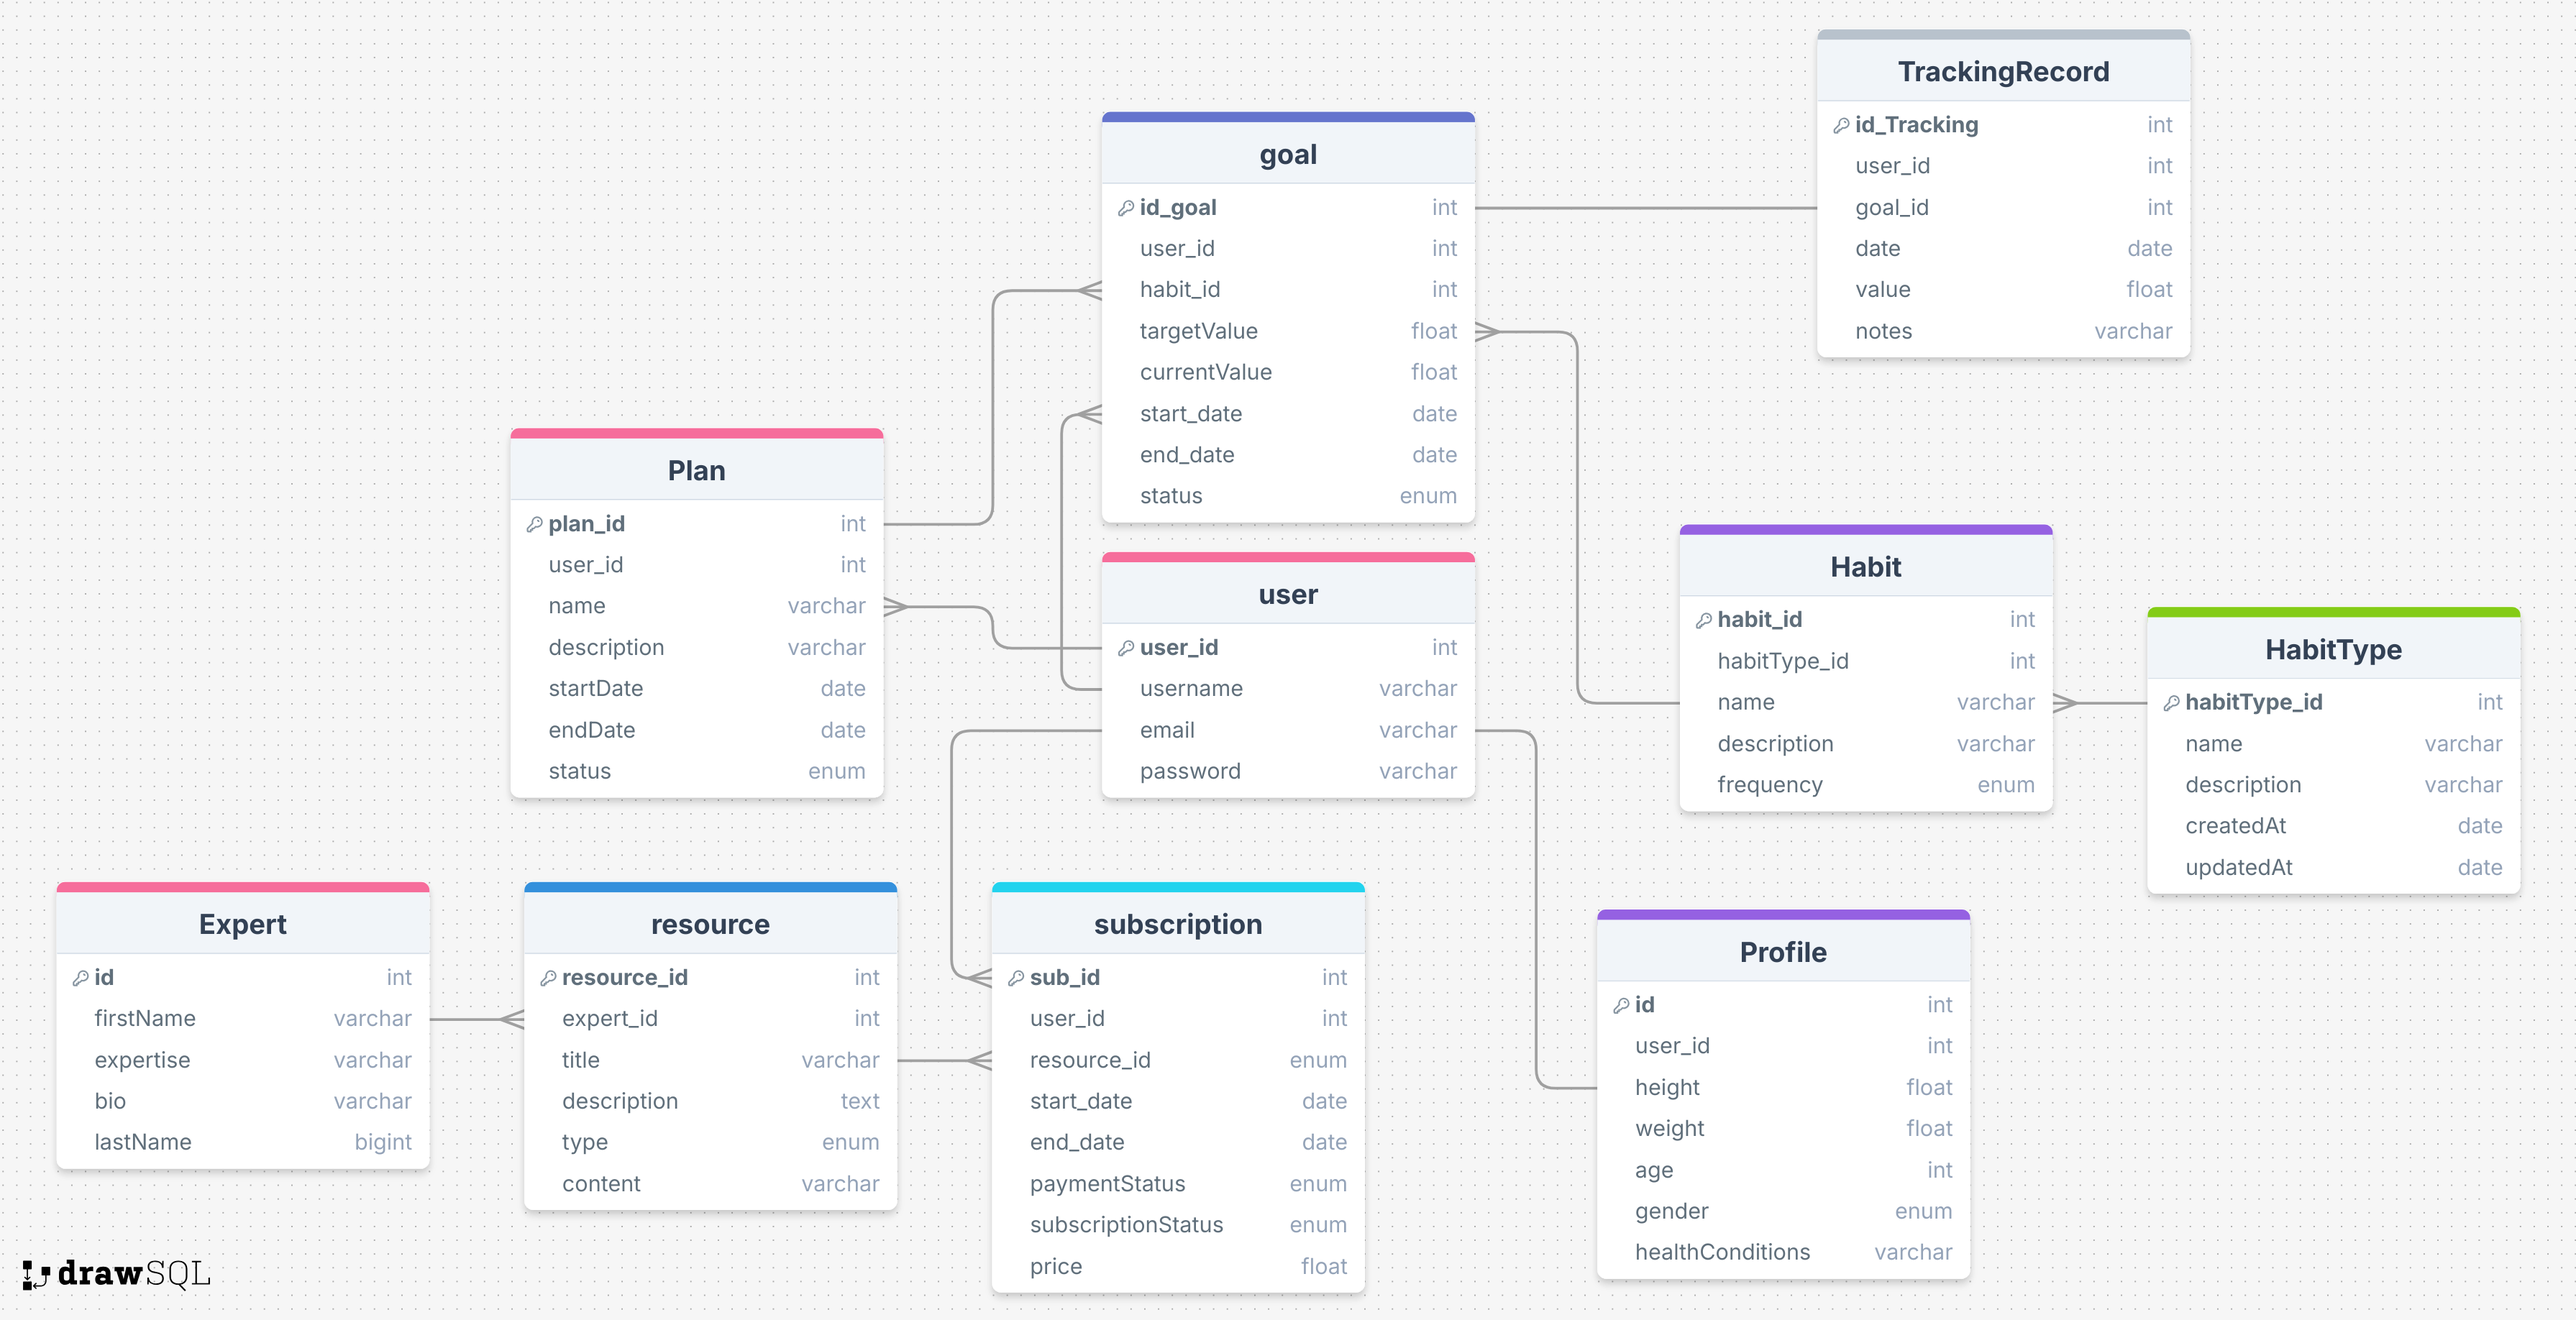
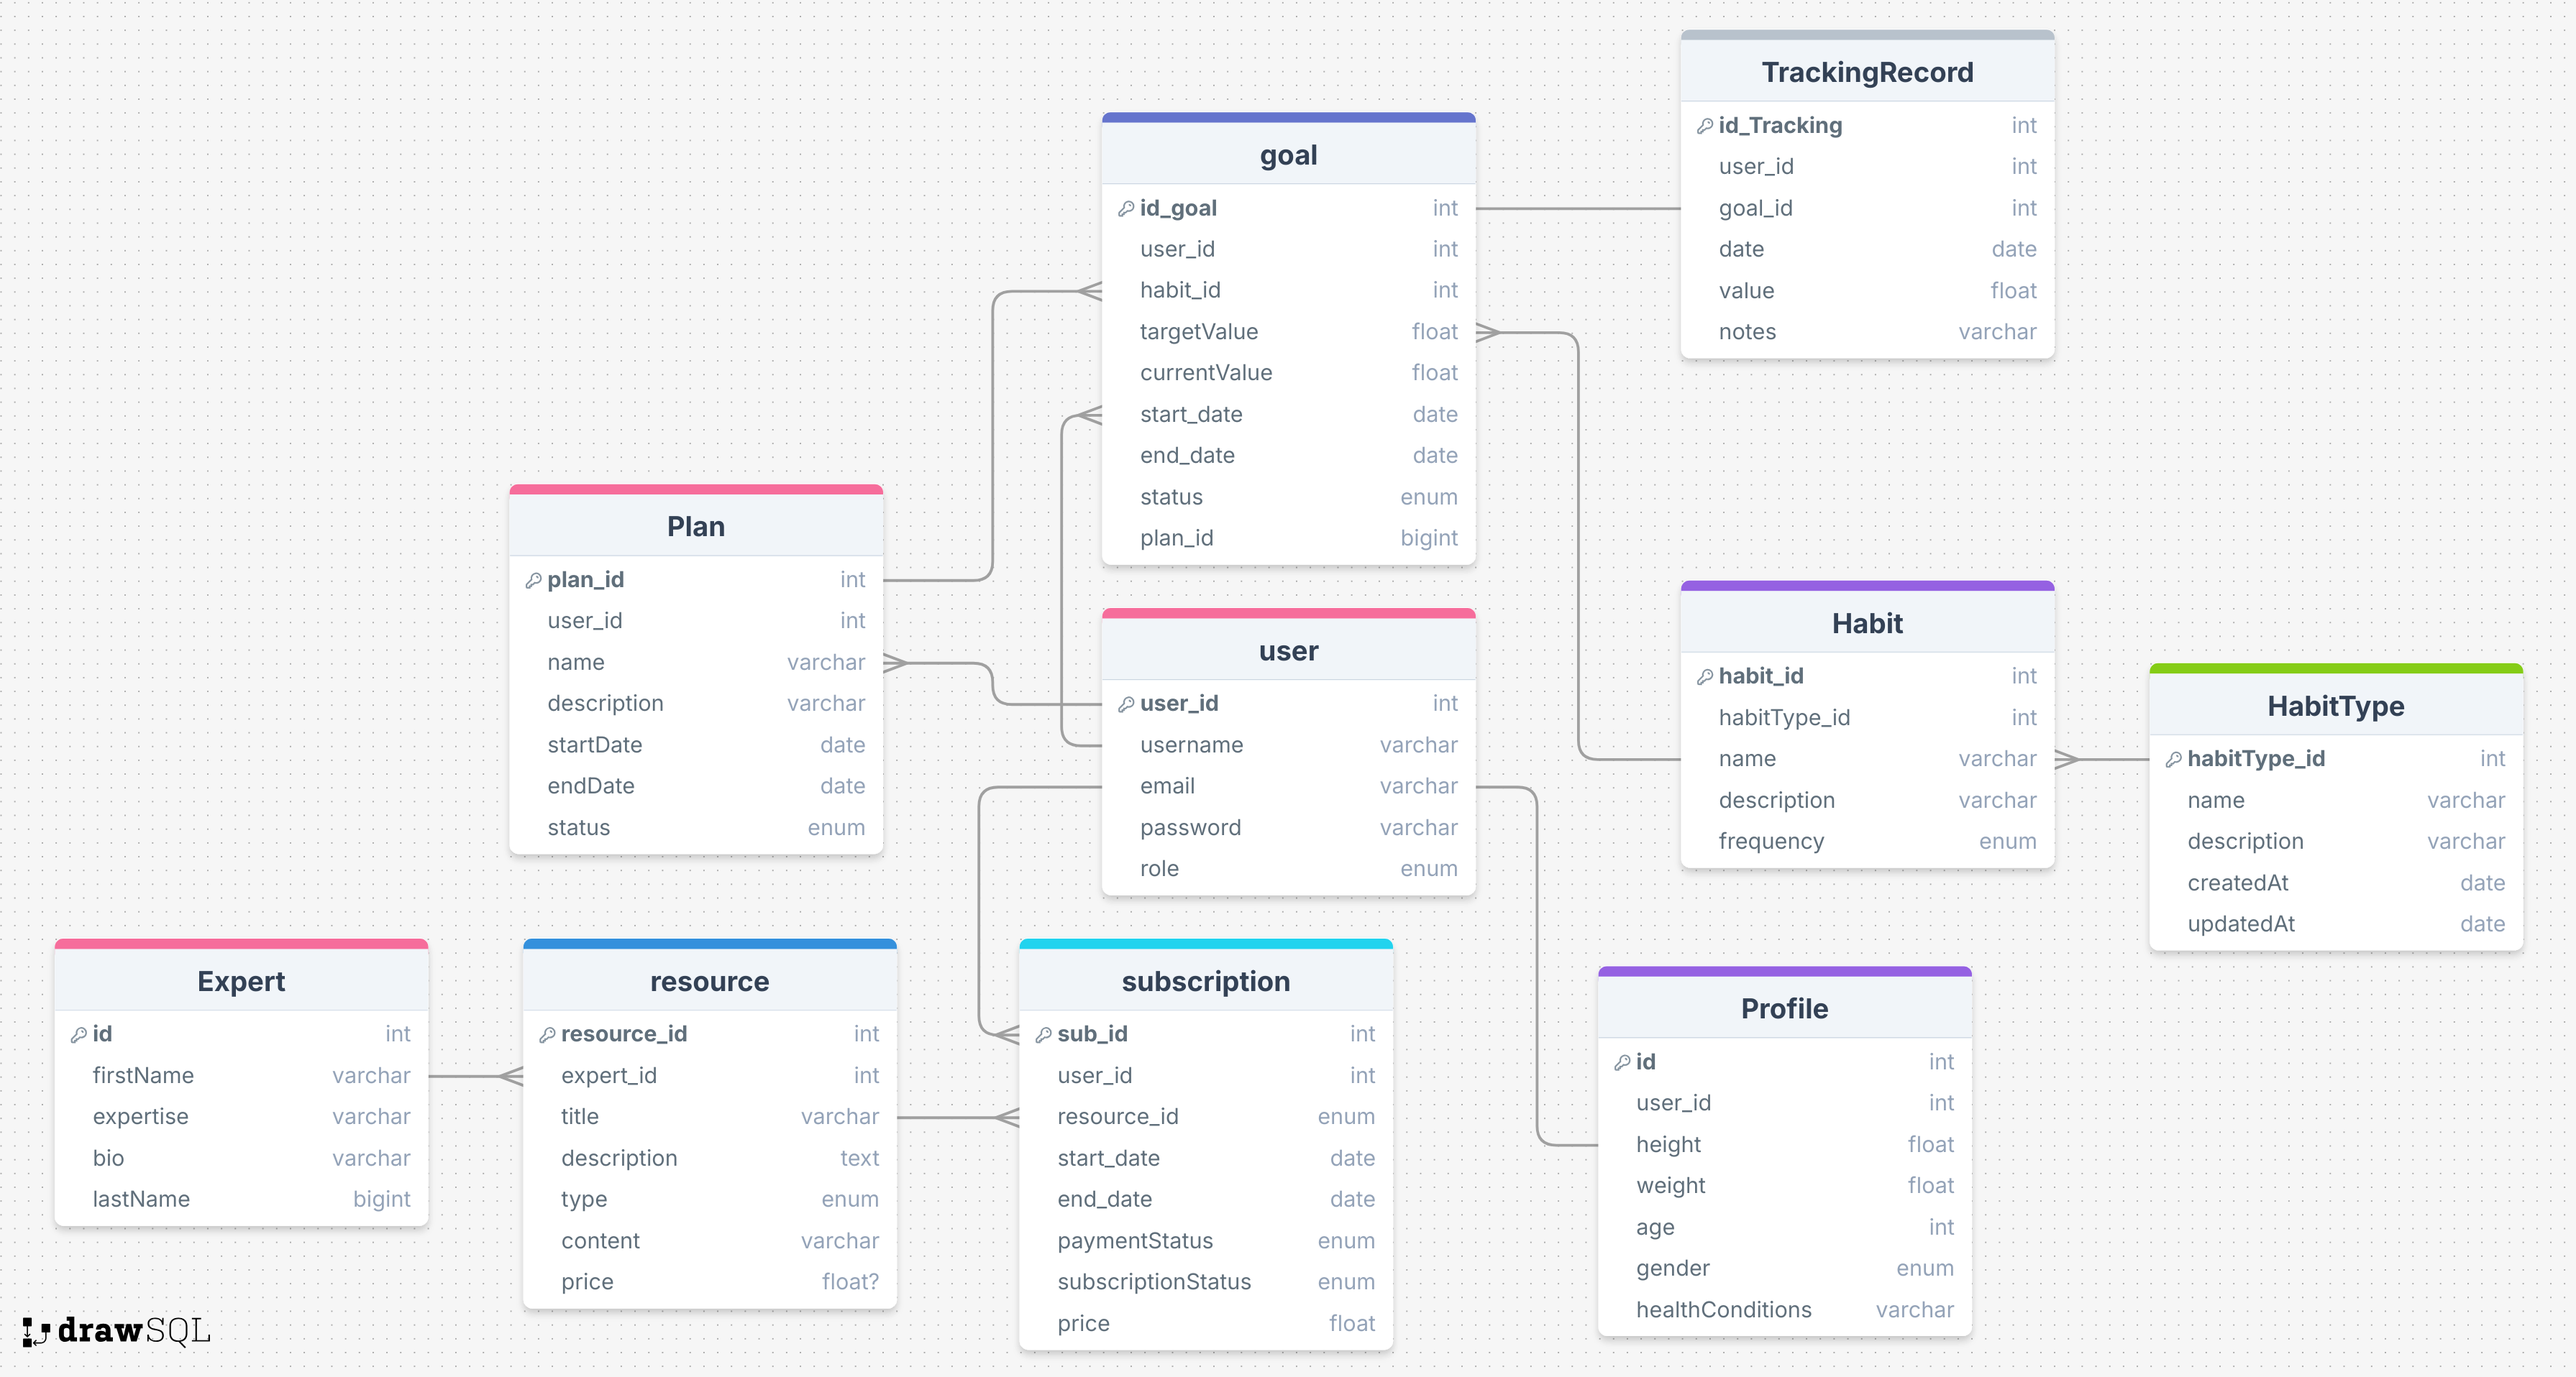
feat(backend): implementacion del CRUD de perfil

diff --git a/src/main/java/com/healthy/model/entity/Goal.java b/src/main/java/com/healthy/model/entity/Goal.java
@@ -3,8 +3,8 @@ package com.healthy.model.entity;
 import com.healthy.model.enums.GoalStatus;
 import jakarta.persistence.*;
 import lombok.Data;
-
 import java.time.LocalDateTime;
+import java.util.List;
 
 @Data
 @Entity
@@ -15,12 +15,16 @@ public class Goal {
     private Integer id;
 
     @ManyToOne
-    @JoinColumn(name = "user_id", referencedColumnName = "id", foreignKey = @ForeignKey(name = "FK_subscription_user"))
+    @JoinColumn(name = "user_id", referencedColumnName = "id", foreignKey = @ForeignKey(name = "FK_goal_user"))
     private User user;
 
     @ManyToOne
-    @JoinColumn(name = "habit_id", referencedColumnName = "id", foreignKey = @ForeignKey(name = "FK_subscription_habit"))
+    @JoinColumn(name = "habit_id", referencedColumnName = "id", foreignKey = @ForeignKey(name = "FK_goal_habit"))
     private Habit habit;
+
+    @ManyToOne
+    @JoinColumn(name = "plan_id", referencedColumnName = "id", foreignKey = @ForeignKey(name = "FK_goal_plan"))
+    private Plan plan;
 
     @Column(name = "target_value")
     private Float targetValue;
@@ -37,4 +41,7 @@ public class Goal {
     @Enumerated(EnumType.STRING)
     @Column(name = "goal_status")
     private GoalStatus goalStatus;
+
+    @OneToMany(mappedBy = "goal", cascade = CascadeType.ALL)
+    private List<TrackingRecord> trackingRecords;
 }

diff --git a/src/main/java/com/healthy/model/entity/TrackingRecord.java b/src/main/java/com/healthy/model/entity/TrackingRecord.java
@@ -13,14 +13,6 @@ public class TrackingRecord {
     @GeneratedValue(strategy = GenerationType.IDENTITY)
     private Integer id;
 
-    @ManyToOne
-    @JoinColumn(name = "user_id", referencedColumnName = "id", foreignKey = @ForeignKey(name ="FK_tracking_record_user"))
-    private User user;
-
-    @ManyToOne
-    @JoinColumn(name = "goal_id", referencedColumnName = "id", foreignKey = @ForeignKey(name = "FK_tracking_record_goal"))
-    private Goal goal;
-
     @Column(name = "date")
     private LocalDateTime date;
 
@@ -29,4 +21,8 @@ public class TrackingRecord {
 
     @Column(name = "note")
     private String note;
+
+    @ManyToOne
+    @JoinColumn(name = "goal_id", referencedColumnName = "id", foreignKey = @ForeignKey(name = "FK_tracking_record_goal"))
+    private Goal goal;
 }

diff --git a/src/main/java/com/healthy/model/entity/Habit.java b/src/main/java/com/healthy/model/entity/Habit.java
@@ -3,6 +3,7 @@ package com.healthy.model.entity;
 import com.healthy.model.enums.Frequency;
 import jakarta.persistence.*;
 import lombok.Data;
+import java.util.List;
 
 @Data
 @Entity
@@ -13,7 +14,7 @@ public class Habit {
     private Integer id;
 
     @ManyToOne
-    @JoinColumn(name = "habit_type_id", referencedColumnName = "id", foreignKey = @ForeignKey(name = "FK_habit_types"))
+    @JoinColumn(name = "habit_type_id", referencedColumnName = "id", foreignKey = @ForeignKey(name = "FK_habit_habit_type"))
     private HabitType habitType;
 
     @Column(name = "name", nullable = false)
@@ -25,4 +26,5 @@ public class Habit {
     @Enumerated(EnumType.STRING)
     @Column(name = "frequency")
     private Frequency frequency;
+
 }

diff --git a/src/main/java/com/healthy/model/entity/Subscription.java b/src/main/java/com/healthy/model/entity/Subscription.java
@@ -9,13 +9,13 @@ import java.time.LocalDateTime;
 
 @Data
 @Entity
-@Table(name = "suscriptions")
+@Table(name = "subscriptions")
 public class Subscription {
     @Id
     @GeneratedValue(strategy = GenerationType.IDENTITY)
     private Integer id;
 
-    @OneToOne
+    @ManyToOne
     @JoinColumn(name = "user_id", referencedColumnName = "id", foreignKey = @ForeignKey(name = "FK_subscription_user"))
     private User user;
 
@@ -36,4 +36,7 @@ public class Subscription {
     @Enumerated(EnumType.STRING)
     @Column(name = "subscription_status")
     private SubscriptionStatus subscriptionStatus;
+
+    @Column(nullable = false)
+    private Float price;
 }

diff --git a/src/main/java/com/healthy/model/entity/User.java b/src/main/java/com/healthy/model/entity/User.java
@@ -3,6 +3,7 @@ package com.healthy.model.entity;
 import com.healthy.model.enums.Role;
 import jakarta.persistence.*;
 import lombok.Data;
+import java.util.List;
 
 @Data
 @Entity
@@ -24,4 +25,13 @@ public class User {
     @Enumerated(EnumType.STRING)
     @Column(name = "role")
     private Role role;
+
+    @OneToMany(mappedBy = "user", cascade = CascadeType.ALL)
+    private List<Goal> goals;
+
+    @OneToMany(mappedBy = "user", cascade = CascadeType.ALL)
+    private List<Plan> plans;
+
+    @OneToMany(mappedBy = "user", cascade = CascadeType.ALL)
+    private List<Subscription> subscriptions;
 }

diff --git a/src/main/java/com/healthy/model/entity/Plan.java b/src/main/java/com/healthy/model/entity/Plan.java
@@ -3,8 +3,8 @@ package com.healthy.model.entity;
 import com.healthy.model.enums.PlanStatus;
 import jakarta.persistence.*;
 import lombok.Data;
-
 import java.time.LocalDateTime;
+import java.util.List;
 
 @Data
 @Entity
@@ -33,4 +33,7 @@ public class Plan {
     @Enumerated(EnumType.STRING)
     @Column(name = "plan_status", nullable = false)
     private PlanStatus planStatus;
+
+    @OneToMany(mappedBy = "plan", cascade = CascadeType.ALL)
+    private List<Goal> goals;
 }

diff --git a/src/main/java/com/healthy/model/entity/Expert.java b/src/main/java/com/healthy/model/entity/Expert.java
@@ -2,6 +2,7 @@ package com.healthy.model.entity;
 
 import jakarta.persistence.*;
 import lombok.Data;
+import java.time.LocalDateTime;
 
 @Data
 @Entity
@@ -22,4 +23,10 @@ public class Expert {
 
     @Column(name = "bio", columnDefinition = "TEXT")
     private String bio;
+
+    @Column(name = "created_at", nullable = false)
+    private LocalDateTime createdAt;
+
+    @Column(name = "updated_at")
+    private LocalDateTime updatedAt;
 }

diff --git a/src/main/java/com/healthy/model/entity/Resource.java b/src/main/java/com/healthy/model/entity/Resource.java
@@ -3,6 +3,7 @@ package com.healthy.model.entity;
 import com.healthy.model.enums.ResourceType;
 import jakarta.persistence.*;
 import lombok.Data;
+import java.util.List;
 
 @Data
 @Entity
@@ -29,6 +30,7 @@ public class Resource {
     @Column(columnDefinition = "TEXT", nullable = false)
     private String content;
 
-    /*@Column(nullable = false)
-    private Float price;*/
+    @Column(nullable = false)
+    private Float price;
+
 }

diff --git a/src/main/java/com/healthy/model/entity/HabitType.java b/src/main/java/com/healthy/model/entity/HabitType.java
@@ -2,7 +2,6 @@ package com.healthy.model.entity;
 
 import jakarta.persistence.*;
 import lombok.Data;
-
 import java.time.LocalDateTime;
 
 @Data
@@ -24,4 +23,5 @@ public class HabitType {
 
     @Column(name = "updated_at")
     private LocalDateTime updatedAt;
+
 }
